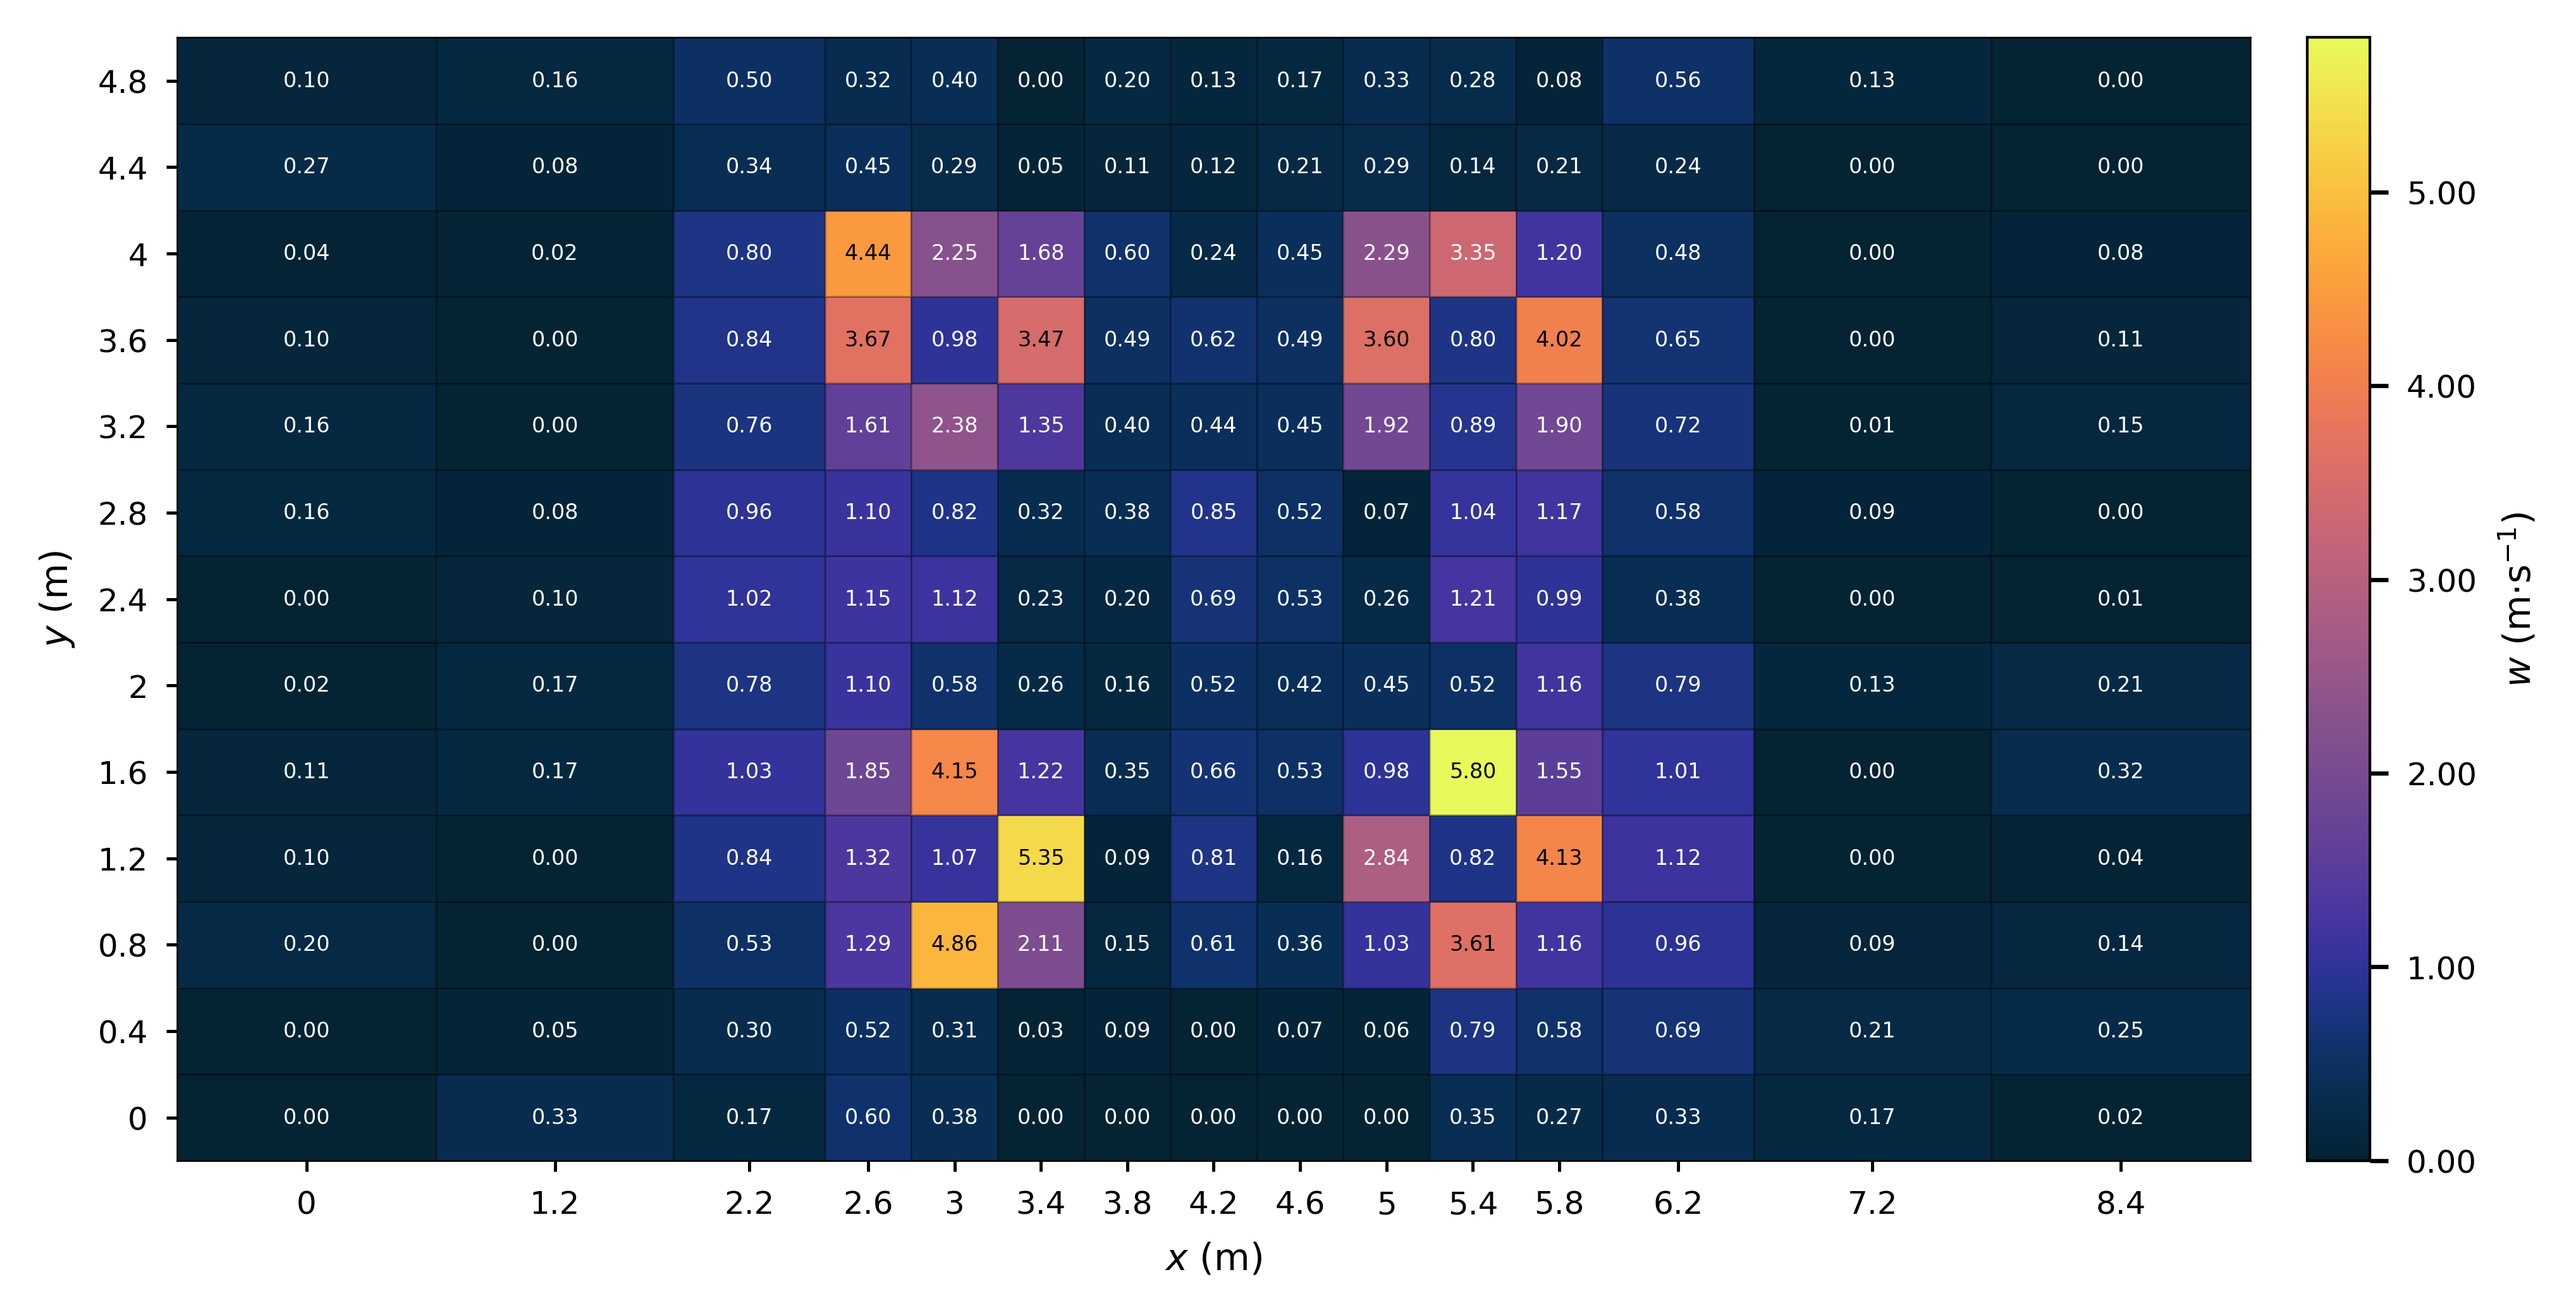
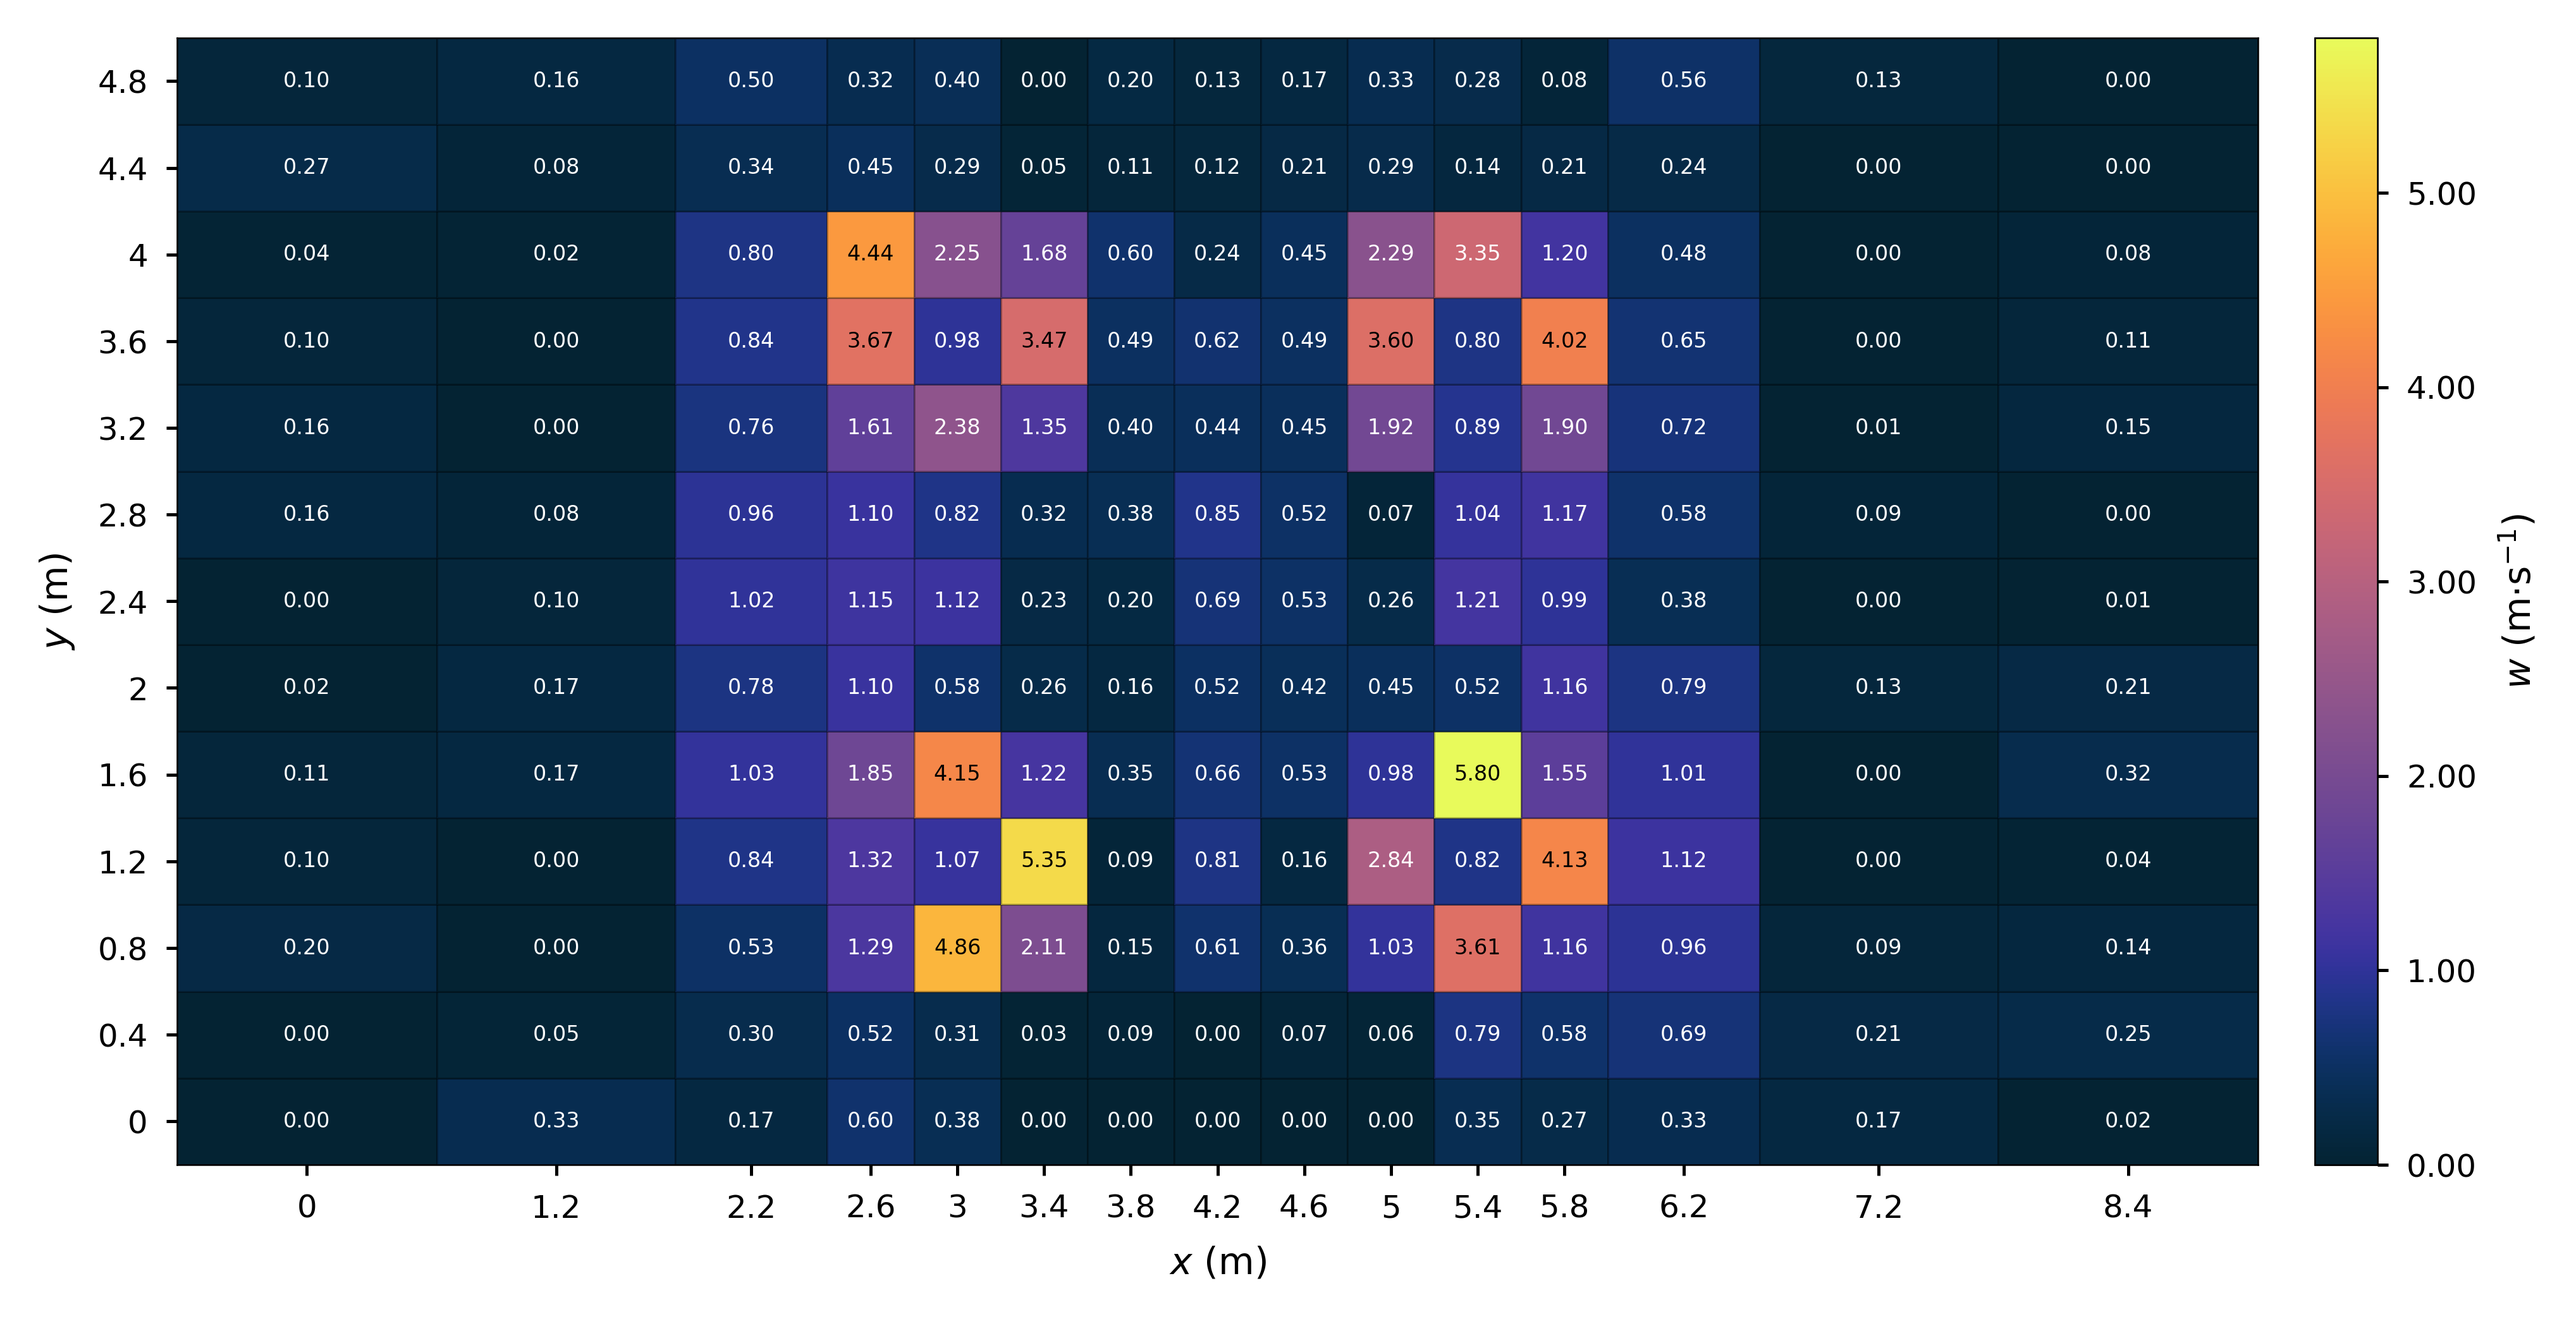
Thermal v1.2
- Python
- Four fan heat map

diff --git a/B_Thermal/four_fan_heat_map.py b/B_Thermal/four_fan_heat_map.py
@@ -29,7 +29,7 @@ YLABEL = r"$y$ (m)"
 # Line widths
 CELL_EDGE_LW = 0.30
 AXIS_EDGE_LW = 0.30
-CBAR_EDGE_LW = 0.50
+CBAR_EDGE_LW = 0.30
 
 # Helpers
 def centers_to_edges(c: np.ndarray) -> np.ndarray:
@@ -144,6 +144,7 @@ def plot_heatmap(x, y, W, outpath: Path, mask_zeros: bool = True):
     cbar.set_label(CBAR_LABEL)
     cbar.formatter = FormatStrFormatter("%.2f")
     cbar.update_ticks()
+    cbar.ax.tick_params(width=0.6, length=2)
     cbar.outline.set_linewidth(CBAR_EDGE_LW)
     cbar.outline.set_edgecolor("k")
     cbar.outline.set_visible(True)

diff --git a/B_Thermal/single_fan_heat_map.py b/B_Thermal/single_fan_heat_map.py
@@ -29,7 +29,7 @@ YLABEL = r"$y$ (m)"
 # Line widths
 CELL_EDGE_LW = 0.30
 AXIS_EDGE_LW = 0.30
-CBAR_EDGE_LW = 0.50
+CBAR_EDGE_LW = 0.30
 
 # Helpers
 def centers_to_edges(c: np.ndarray) -> np.ndarray:
@@ -144,6 +144,7 @@ def plot_heatmap(x, y, W, outpath: Path, mask_zeros: bool = True):
     cbar.set_label(CBAR_LABEL)
     cbar.formatter = FormatStrFormatter("%.2f")
     cbar.update_ticks()
+    cbar.ax.tick_params(width=0.6, length=2)
     cbar.outline.set_linewidth(CBAR_EDGE_LW)
     cbar.outline.set_edgecolor("k")
     cbar.outline.set_visible(True)
